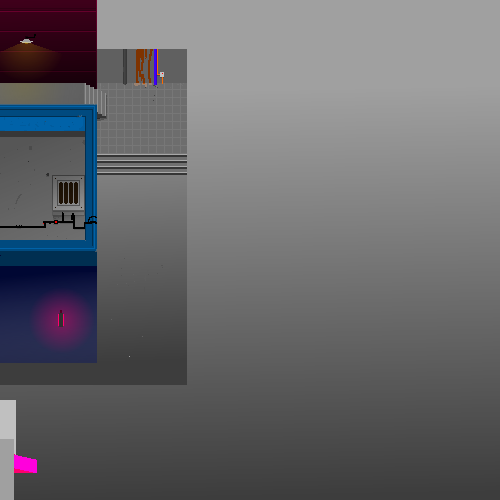
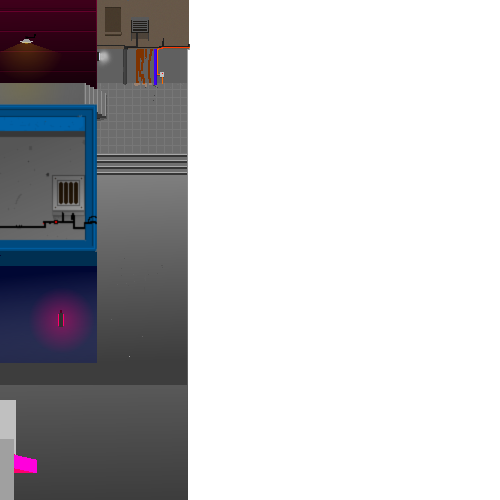
Added background with parralax

diff --git a/game/environment.js b/game/environment.js
@@ -5,9 +5,17 @@ var Environment = function Environment() {
   var foregroundImg = new Image();
   foregroundImg.src = './assets/environment/street/street1-foreground.png';
 
+  var backgroundImg1 = new Image();
+  backgroundImg1.src = './assets/environment/street/street1-background1.png';
+
+  var backgroundImg2 = new Image();
+  backgroundImg2.src = './assets/environment/street/street1-background2.png';
+
   this.debug = global.DEBUG;
   this.img = img;
   this.foregroundImg = foregroundImg;
+  this.backgroundImgs = [backgroundImg1, backgroundImg2];
+  this.bgImageIndex = 0;
   this.x = 0;
   this.y = 0;
   this.height = 500;
@@ -21,7 +29,7 @@ var Environment = function Environment() {
     top: 0,
     left: 188,
     right: 500,
-    bottom: 500
+    bottom: 400
   }, {
     top: 105,
     left: 0,
@@ -36,6 +44,10 @@ var Environment = function Environment() {
 };
 
 Environment.prototype.update = function update() {
+  this.bgImageIndex++;
+  if (this.bgImageIndex > 100) {
+    this.bgImageIndex = 0;
+  }
 };
 
 Environment.prototype.render = function render(ctx, camera) {
@@ -46,7 +58,11 @@ Environment.prototype.render = function render(ctx, camera) {
 
   ctx.translate(camera.offsetX, camera.offsetY);
 
+  let index = this.bgImageIndex < 50 ? 0 : 1;
+  ctx.drawImage(this.backgroundImgs[index], 40 - camera.offsetX / 5, 40 - camera.offsetY / 5);
+
   ctx.drawImage(this.img, 0, 0);
+
 
   if (this.debug) {
     ctx.strokeStyle = 'red';

diff --git a/game/main.js b/game/main.js
@@ -33,7 +33,7 @@ const main = () => {
 };
 
 const update = (dt) => {
-  environment.update();
+  environment.update(dt);
   camera.update(ctx, player);
   player.update(environment);
 };
